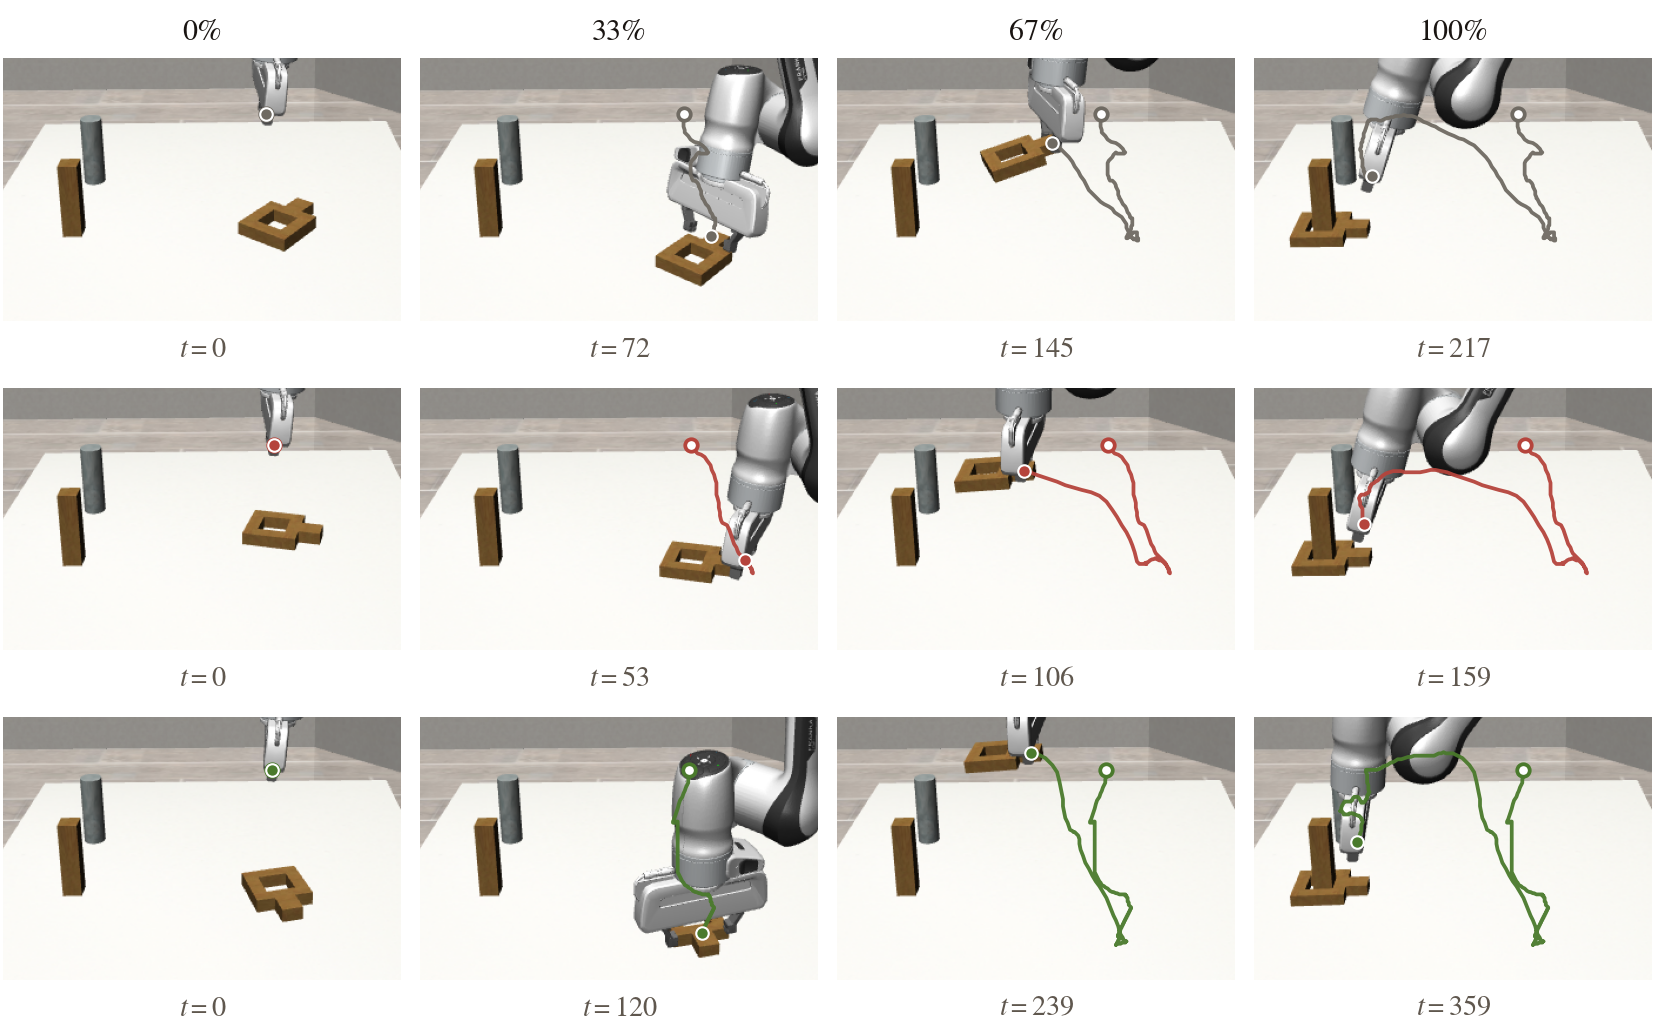
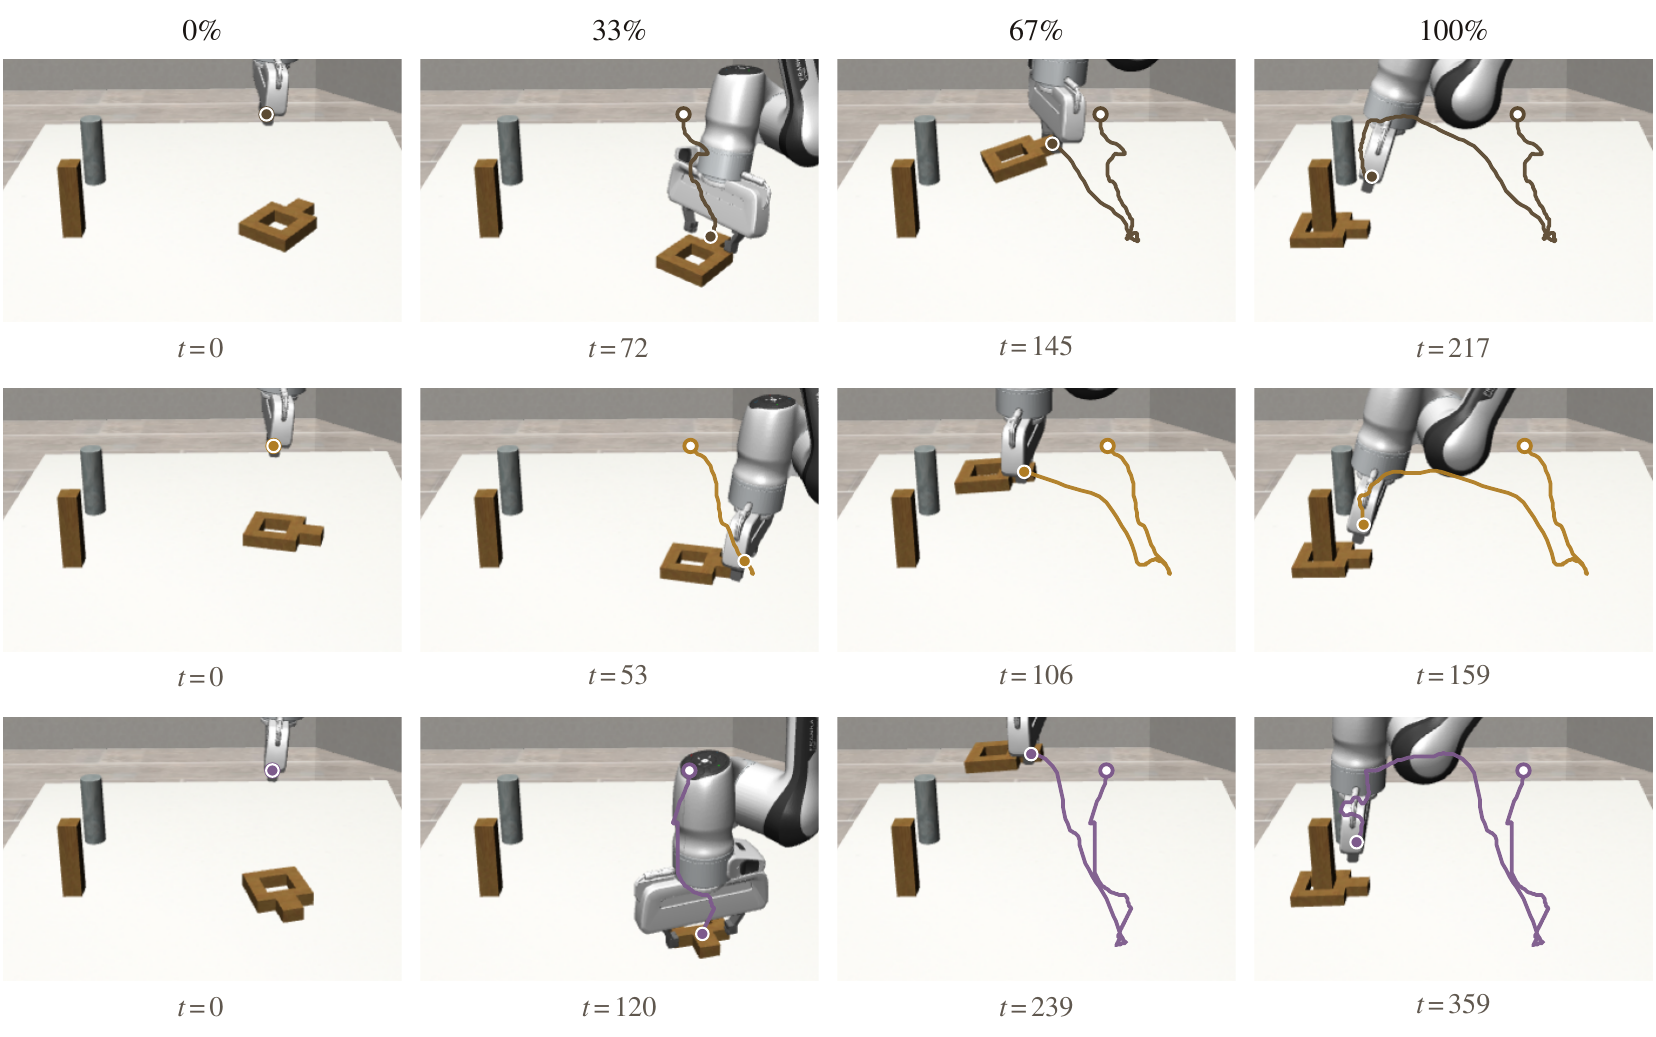
Sync README with the camera-ready paper

diff --git a/curaeval/stats.py b/curaeval/stats.py
@@ -2,13 +2,9 @@
 
 The unit of analysis is the training seed: rollouts of one trained policy are
 not independent samples of what a selection does, so every comparison uses
-per-seed success rates.
-
-* cell means carry a Student-t 95% interval over training seeds;
-* differences use two-sided Welch t tests and Welch 95% intervals;
-* Holm's step-down correction is applied within a fixed family of comparisons.
-
-Intervals are pointwise and unclipped; they are not simultaneous intervals.
+per-seed success rates. Differences are tested with two-sided Welch t tests,
+and Holm's step-down correction is applied within a fixed family of
+comparisons.
 """
 from __future__ import annotations
 
@@ -20,20 +16,16 @@ from scipy import stats
 
 
 def summarize(values):
-    """Mean over training seeds with a Student-t 95% interval.
+    """Mean and standard deviation over training seeds.
 
     ``values`` maps training seed to success rate.
     """
     a = np.asarray(list(values.values()), dtype=float)
-    n = len(a)
-    mean = float(a.mean())
-    sd = float(a.std(ddof=1))
-    half = float(stats.t.ppf(.975, n - 1) * sd / math.sqrt(n))
-    return {"n": n, "mean": mean, "sd": sd, "ci95_low": mean - half, "ci95_high": mean + half}
+    return {"n": len(a), "mean": float(a.mean()), "sd": float(a.std(ddof=1))}
 
 
 def welch(a, b):
-    """Two-sided Welch comparison of the mean of ``a`` minus the mean of ``b``."""
+    """Two-sided Welch test of the mean of ``a`` minus the mean of ``b``."""
     x = np.array(list(a.values()), dtype=float)
     y = np.array(list(b.values()), dtype=float)
     vx = float(np.var(x, ddof=1) / len(x))
@@ -45,9 +37,7 @@ def welch(a, b):
     df = (vx + vy) ** 2 / (vx ** 2 / (len(x) - 1) + vy ** 2 / (len(y) - 1))
     t = delta / se
     p = float(2 * stats.t.sf(abs(t), df))
-    half = float(stats.t.ppf(.975, df) * se)
-    return {"delta": delta, "ci95_low": delta - half, "ci95_high": delta + half,
-            "p_raw": p, "standard_error": se, "welch_df": df,
+    return {"delta": delta, "p_raw": p, "standard_error": se, "welch_df": df,
             "n_condition": len(x), "n_control": len(y)}
 
 

diff --git a/scripts/compare.py b/scripts/compare.py
@@ -28,8 +28,7 @@ from curaeval.stats import fmt, holm, p_text, summarize, welch  # noqa: E402
 RUN = re.compile(r"(dp|bc)_(can|square|transport)_(.+)_seed(\d+)")
 RANDOM = re.compile(r"random_(\d+)_s(\d+)")
 SUBSET = re.compile(r"(.+)_(\d+)")
-FIELDS = ["n_control", "delta", "ci95_low", "ci95_high", "p_raw", "p_holm",
-          "family_size", "welch_df"]
+FIELDS = ["n_control", "delta", "p_raw", "p_holm", "family_size", "welch_df"]
 
 
 def read_runs(paths):
@@ -127,8 +126,7 @@ def main():
         for c in sorted(cells.values(), key=order):
             r = {"policy": policy, "task": task, "filter_key": c["key"], "score": c["score"],
                  "retention": c["retention"], "family": c["family"], "n": c["n"],
-                 "success": c["mean"], "success_sd": c["sd"],
-                 "success_ci95_low": c["ci95_low"], "success_ci95_high": c["ci95_high"]}
+                 "success": c["mean"], "success_sd": c["sd"]}
             for family in ("vs_random", "vs_all"):
                 d = c.get(family) or {}
                 r.update({f"{family}_{f}": d.get(f, "") for f in FIELDS})

diff --git a/scripts/run_dp.py b/scripts/run_dp.py
@@ -58,7 +58,7 @@ def main():
     c.lock()
 
     # All runs of one comparison should use one GPU type; --fast then only adds
-    # numerical noise that the across-seed intervals absorb.
+    # numerical noise, small next to the variation across training seeds.
     if a.fast:
         torch.backends.cudnn.benchmark = True
         torch.backends.cuda.matmul.allow_tf32 = True

diff --git a/README.md b/README.md
@@ -32,7 +32,7 @@ of CUPID to robomimic's Diffusion Policy.
 |---|---|
 | `curaeval/metrics/` | the demonstration scores |
 | `curaeval/data.py` | reading robomimic demonstrations; reading and writing selection masks |
-| `curaeval/stats.py` | seed-level intervals, Welch tests, Holm correction |
+| `curaeval/stats.py` | Welch tests over training seeds, Holm correction |
 | `scripts/` | selection masks, training (Diffusion Policy, BC-RNN), log parsing, comparison |
 | `cluster/` | Slurm templates for masks, training, evaluation and CUPID scoring |
 | `cupid_port/` | CUPID influence scores for robomimic Diffusion Policy checkpoints ([README](cupid_port/README.md)) |
@@ -65,7 +65,7 @@ bash scripts/download_data.sh          # -> data/robomimic/<task>/mh/low_dim_v14
 
 | key | name | score | source |
 |---|---|---|---|
-| `psd` | PSD | total spectral power of the end-effector position | Sojib et al., arXiv:2605.01544 |
+| `psd` | PSD | power spectral density of the end-effector position, summed over all frequencies | Sojib et al., arXiv:2605.01544 |
 | `psdvel` | Velocity-PSD | the same score on end-effector velocity | variant of PSD |
 | `sal` | SAL | RINSE spectral arc length | Kulkarni et al., arXiv:2604.23000 |
 | `geomloo` | HG-WT (LOO) | leave-one-out contribution to the geometric entropy H_G | Luo et al., arXiv:2606.20871, with our leave-one-out wrapper |
@@ -186,6 +186,12 @@ Diffusion Policy on square, can and transport (Tables 1 and 2 of the paper):
 </p>
 <p align="center">
   <img src="assets/table_can_transport.png" width="80%" alt="Table 2: Diffusion Policy on can and transport">
+</p>
+
+The same comparison under the initial and the updated evaluation protocol (Table 3 of the paper):
+
+<p align="center">
+  <img src="assets/table_protocol.png" width="80%" alt="Table 3: Protocol sensitivity on square">
 </p>
 
 Demonstrations kept at 25% retention on square: the median-length
